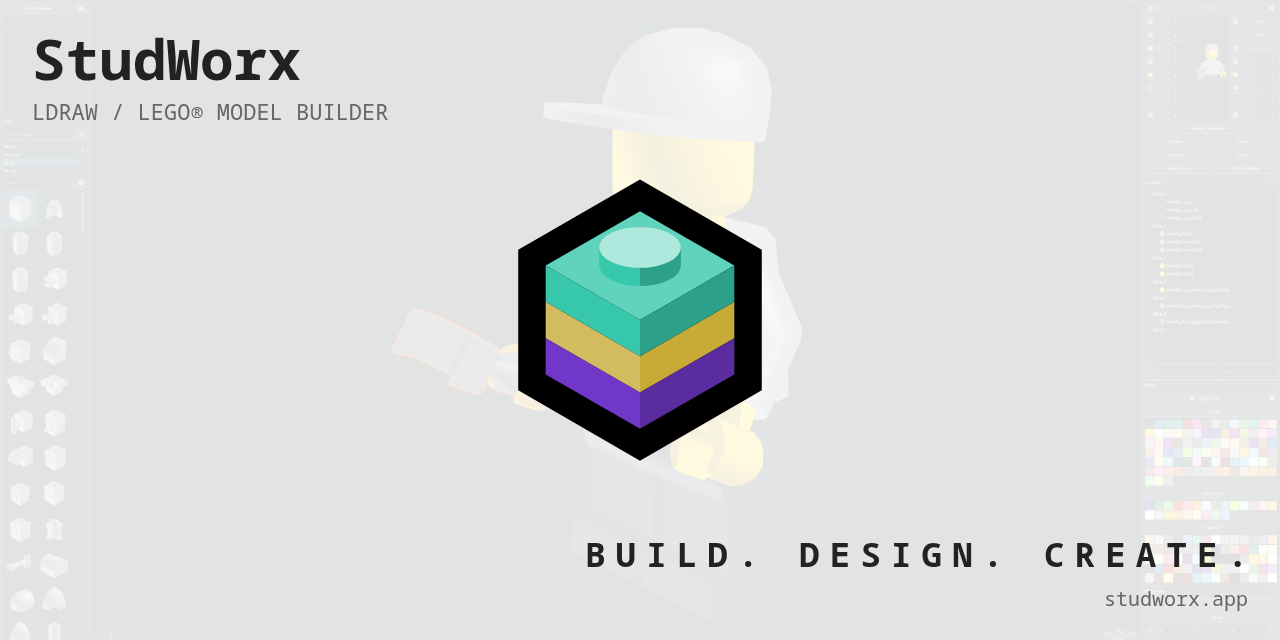
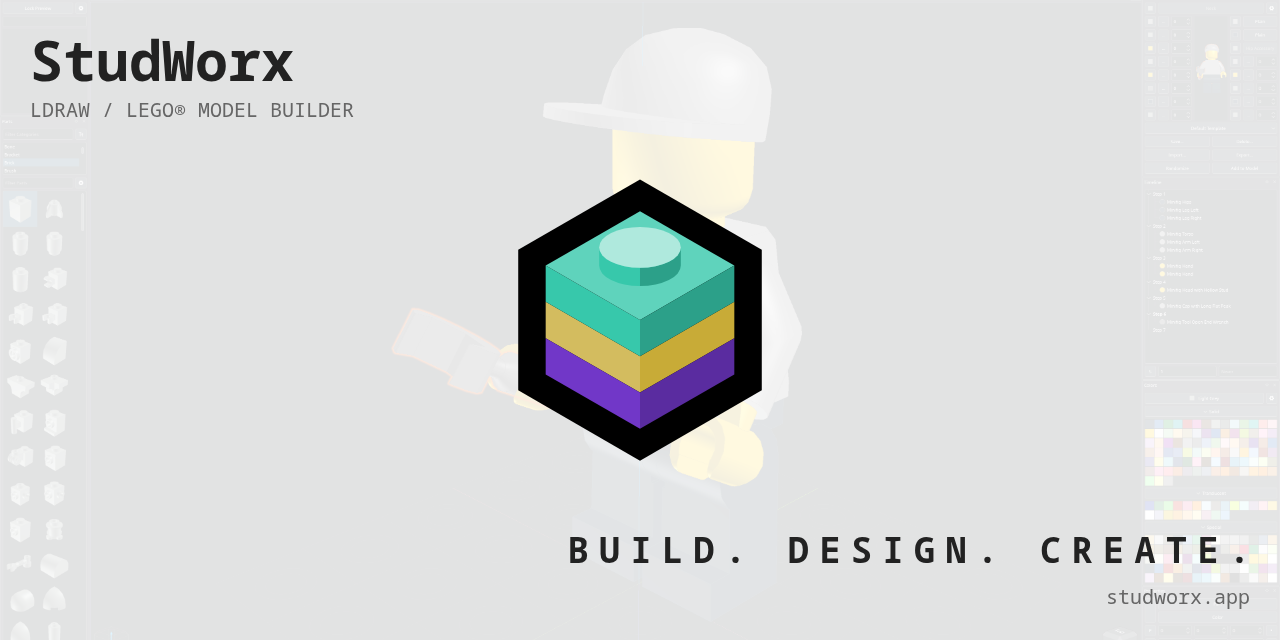
Code & Features Update

diff --git a/index.html b/index.html
@@ -131,7 +131,7 @@
 				color: #666666;
 				margin: 0;
 				padding: 0 0 100px 0;
-				font-size: 14px;
+				font-size: 15px;
 				line-height: 1.6;
 				overflow-x: hidden;
 			}
@@ -181,7 +181,7 @@
 				border-radius: 0;
 				overflow: visible;
 				color: #bbbbbb;
-				font-size: clamp(5px, 0.9vw, 11px);
+				font-size: clamp(5px, 0.9vw, 10px);
 				line-height: 1.1;
 				zoom: 2;
 			}
@@ -201,7 +201,7 @@
 			}
 
 			.head-landing h1 {
-				font-size: clamp(22px, 4vw, 40px);
+				font-size: clamp(20px, 4vw, 40px);
 			}
 
 			.head-landing p {
@@ -233,7 +233,6 @@
 				position: absolute;
 				right: 0;
 				bottom: 80px;
-				max-width: 640px;
 				padding: 10px;
 				text-align: right;
 				opacity: 0;
@@ -241,11 +240,13 @@
 			}
 
 			.foot-landing p {
-				margin: 0 0 15px 0;
+				max-width: 520px;
+				margin: 0 0 15px auto;
 			}
 
 			.foot-landing h2 {
-				font-size: clamp(20px, 3vw, 30px);
+				font-size: clamp(20px, 3.3vw, 30px);
+				white-space: nowrap;
 			}
 
 			.tagline {
@@ -297,12 +298,12 @@
 			}
 
 			.head-section h2 {
-				font-size: clamp(18px, 2.6vw, 26px);
+				font-size: clamp(20px, 2.5vw, 25px);
 			}
 
 			.section h3 {
 				margin: 30px 0 10px 0;
-				font-size: 16px;
+				font-size: 15px;
 			}
 
 			.lead {
@@ -322,7 +323,7 @@
 
 			.points li {
 				border-left: 5px solid #bbbbbb;
-				padding: 2.5px 0 2.5px 10px;
+				padding: 5px 0 5px 10px;
 			}
 
 			.points code {
@@ -431,7 +432,7 @@
 
 			figcaption {
 				padding: 5px 5px 0 5px;
-				font-size: 12px;
+				font-size: 10px;
 				text-align: center;
 			}
 
@@ -533,7 +534,7 @@
 				border-radius: 20px;
 				padding: 5px 10px;
 				margin: 5px 0;
-				font-size: 12px;
+				font-size: 10px;
 				white-space: nowrap;
 			}
 
@@ -546,7 +547,7 @@
 			}
 
 			pre.diagram {
-				font-size: 12px;
+				font-size: 10px;
 				line-height: 1.25;
 			}
 
@@ -610,7 +611,7 @@
 				border-radius: 20px;
 				background: #f6f6f6;
 				color: #222222;
-				font-size: 14px;
+				font-size: 15px;
 				outline: none;
 			}
 
@@ -676,11 +677,11 @@
 
 			.head-command h3 {
 				margin: 0;
-				font-size: 16px;
+				font-size: 15px;
 			}
 
 			.meta-command {
-				font-size: 12px;
+				font-size: 10px;
 				color: #aaaaaa;
 			}
 
@@ -693,7 +694,7 @@
 				padding: 10px 15px;
 				border-radius: 10px;
 				background: #ffffff;
-				font-size: 12px;
+				font-size: 10px;
 				white-space: pre-wrap;
 			}
 
@@ -736,7 +737,7 @@
 				border-radius: 10px;
 				padding: 5px 10px;
 				margin: 0 0 5px 0;
-				font-size: 12px;
+				font-size: 10px;
 			}
 
 			.tag {
@@ -746,7 +747,7 @@
 				border-radius: 20px;
 				padding: 5px 10px;
 				margin: 5px 0;
-				font-size: 12px;
+				font-size: 10px;
 				white-space: nowrap;
 			}
 
@@ -760,7 +761,7 @@
 				background: #ffffff;
 				border-radius: 20px;
 				padding: 5px 10px;
-				font-size: 12px;
+				font-size: 10px;
 				color: #222222;
 			}
 
@@ -925,12 +926,12 @@
 
 			.button-navigation {
 				flex: none;
-				width: 80px;
-				padding: 10px 0 0 0;
+				min-width: 80px;
+				padding: 10px 10px 0 10px;
 				color: #666666;
 				text-align: center;
 				text-decoration: none;
-				font-size: 12px;
+				font-size: 15px;
 			}
 
 			.button-navigation .icon {
@@ -960,7 +961,7 @@
 				margin: 20px auto 0 auto;
 				padding: 20px 0;
 				border-top: 2px solid #eeeeee;
-				font-size: 12px;
+				font-size: 10px;
 			}
 
 			.copyright p {
@@ -1030,7 +1031,7 @@
 				color: #222222;
 				border-radius: 20px;
 				padding: 15px 20px;
-				font-size: 12px;
+				font-size: 10px;
 				line-height: 1.4;
 				overflow-x: auto;
 				white-space: pre;
@@ -1062,7 +1063,7 @@
 				background: #f6f6f6;
 				border-radius: 15px;
 				padding: 10px;
-				font-size: 12px;
+				font-size: 10px;
 			}
 
 			.swatch span {
@@ -1092,7 +1093,7 @@
 
 			.command th, .command td {
 				padding: 5px 10px;
-				font-size: 12px;
+				font-size: 10px;
 			}
 
 			@media (max-width: 800px) {
